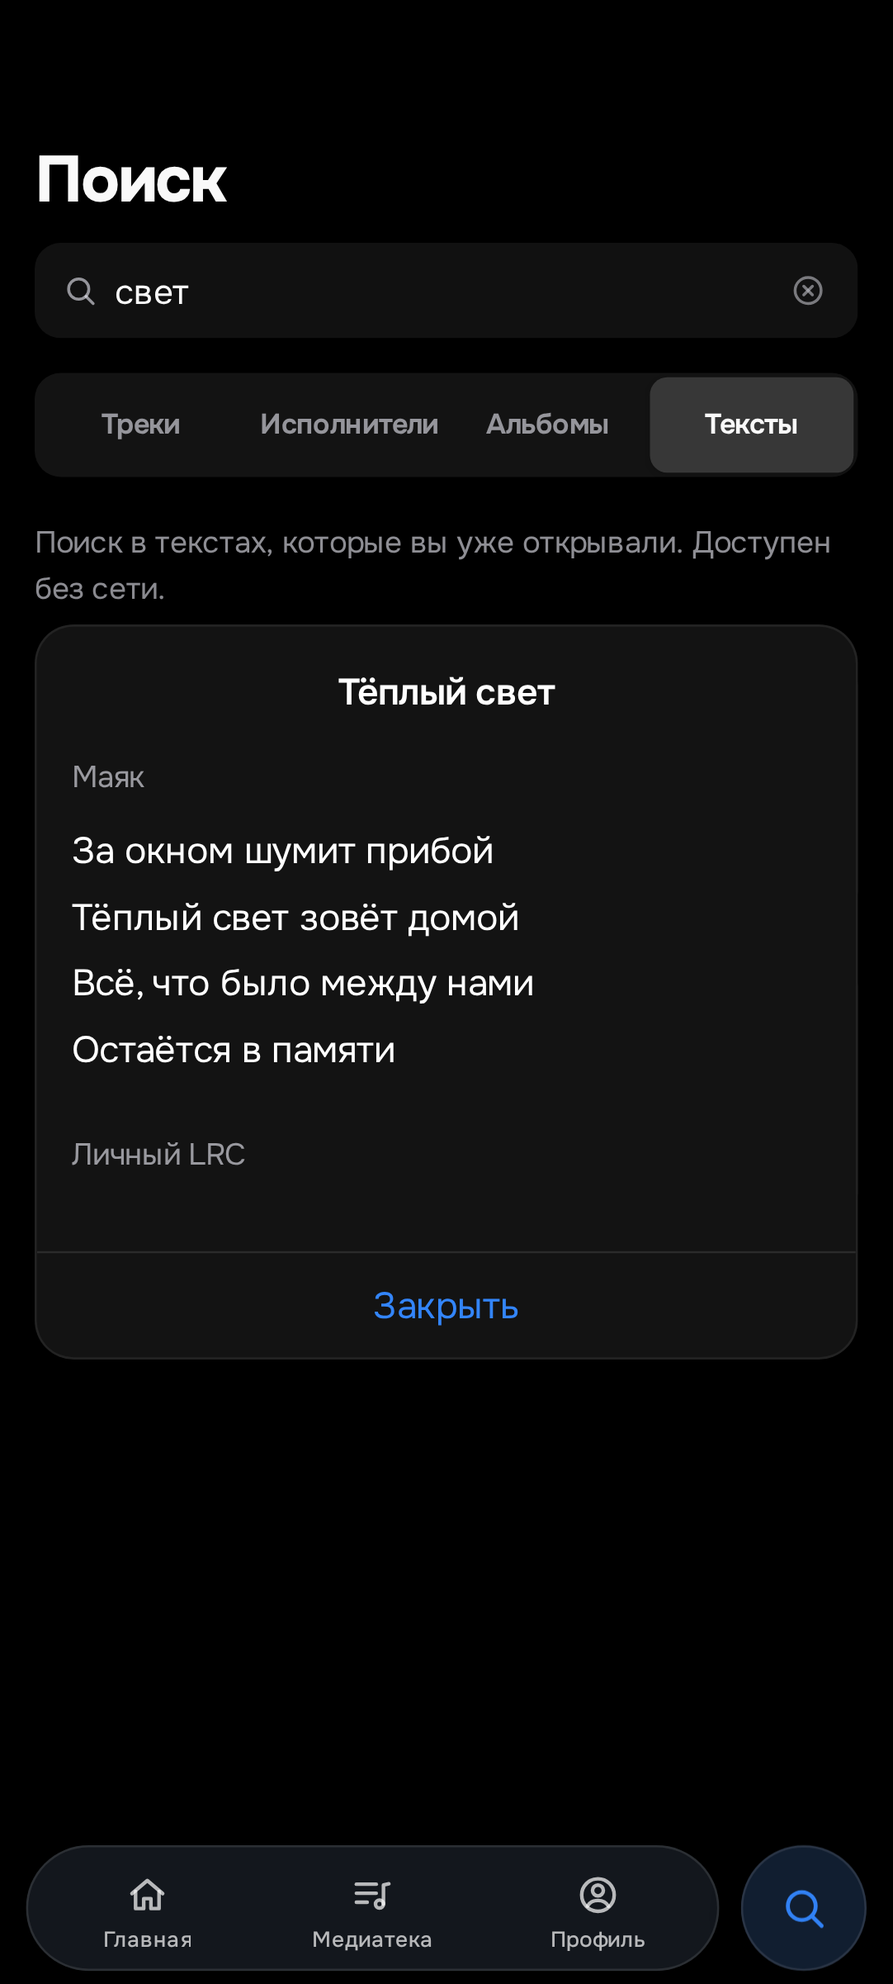
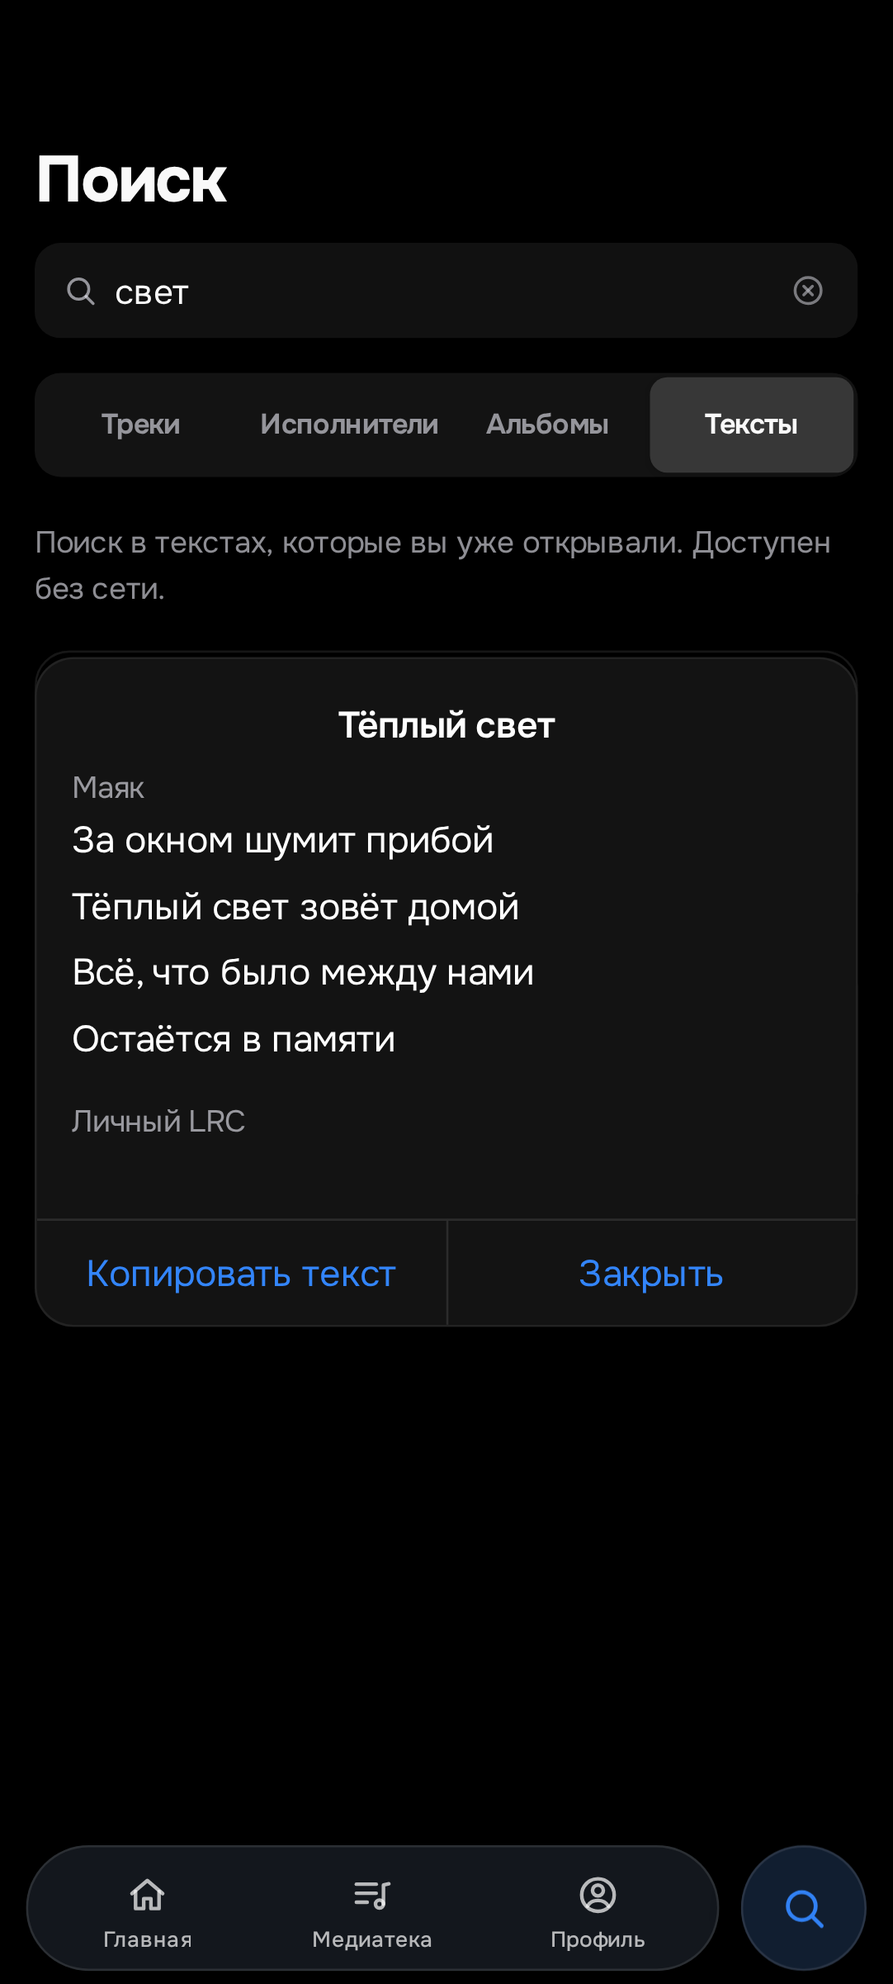
Android: копировать строки и полный текст песни без случайной перемотки

diff --git a/ui-tests/lyrics-copy.test.js b/ui-tests/lyrics-copy.test.js
@@ -1,0 +1,67 @@
+import test from 'node:test';
+import assert from 'node:assert/strict';
+import {openApp} from './harness.js';
+async function ready(page){await page.waitForSelector('.row');await page.waitForFunction(()=>!!document.querySelector('.account .name')?.textContent);}
+async function fixture(page){
+ await page.evaluate(async()=>{
+  const{installLyricsCopy}=await import('/js/lyrics-copy.js');const{api}=await import('/js/api.js');const{accountId}=await import('/js/personal.js');
+  const body=document.createElement('div');body.className='lyrics-copy-fixture';
+  const line=document.createElement('button');line.className='ly-line';line.textContent='Строка для копирования';line.onclick=()=>api.seek(5);
+  body.append(line);document.body.append(body);line.style.position='fixed';line.style.inset='100px 20px auto';line.style.zIndex='10000';line.style.height='70px';
+  window.__lyricIdentity='track';window.__copier=installLyricsCopy(body,()=>`${accountId()}:${window.__lyricIdentity}`);
+ });
+}
+test('lyrics: holding a line copies plain text once without seeking; the next tap still seeks',async()=>{
+ const app=await openApp({query:'?platform=android',config:{signedIn:true,libraryTotal:5}});try{
+  const{page}=app;await ready(page);await fixture(page);const line=page.locator('.lyrics-copy-fixture .ly-line');
+  await line.hover();await page.mouse.down();await page.waitForTimeout(650);await page.mouse.up();
+  assert.equal(await page.evaluate(()=>window.__mock.count('copy_text')),1);
+  assert.equal(await page.evaluate(()=>window.__mock.last('copy_text').args.text),'Строка для копирования');
+  assert.equal(await page.evaluate(()=>window.__mock.count('seek')),0);
+  await line.click();assert.equal(await page.evaluate(()=>window.__mock.count('seek')),1);
+  assert.deepEqual(app.problems,[]);
+ }finally{await app.close();}
+});
+test('lyrics: moving or changing the source during a hold cancels the copy',async()=>{
+ const app=await openApp({query:'?platform=android',config:{signedIn:true,libraryTotal:5}});try{
+  const{page}=app;await ready(page);await fixture(page);const box=await page.locator('.lyrics-copy-fixture .ly-line').boundingBox();
+  await page.mouse.move(box.x+20,box.y+20);await page.mouse.down();await page.mouse.move(box.x+50,box.y+20);await page.waitForTimeout(650);await page.mouse.up();
+  assert.equal(await page.evaluate(()=>window.__mock.count('copy_text')),0);
+  await page.mouse.down();await page.evaluate(()=>{window.__lyricIdentity='other';});await page.waitForTimeout(650);await page.mouse.up();
+  assert.equal(await page.evaluate(()=>window.__mock.count('copy_text')),0);
+  assert.deepEqual(app.problems,[]);
+ }finally{await app.close();}
+});
+test('lyrics: saved reader copies only its displayed text and leaves playback alone',async()=>{
+ const app=await openApp({phone:'small',config:{signedIn:true,libraryTotal:5}});try{
+  const{page}=app;await ready(page);
+  await page.evaluate(async()=>{const{rememberLyrics}=await import('/js/saved-lyrics.js');const{libraryTracks}=await import('/js/likes.js');rememberLyrics(libraryTracks()[0],{source:'Local',text:'Тихий вечер\nНовый день',lines:[]});});
+  await page.click('.dock-tab[data-tab="search"]');await page.getByRole('tab',{name:'Тексты',exact:true}).click();
+  const field=page.locator('.main > .view:not([hidden]) input[type="search"]');await field.fill('вечер');await field.press('Enter');await page.locator('.saved-lyrics-excerpt').click();
+  await page.locator('.saved-lyrics-copy').click();
+  assert.equal(await page.evaluate(()=>window.__mock.last('copy_text').args.text),'Тихий вечер\nНовый день');
+  assert.equal(await page.evaluate(()=>window.__mock.count('seek')),0);
+  assert.equal(await page.evaluate(()=>window.__mock.count('play_tracks')),0);
+  assert.deepEqual(app.problems,[]);
+ }finally{await app.close();}
+});
+test('lyrics: player updates do not cancel a hold, and the copy button copies the displayed version',async()=>{
+ const app=await openApp({query:'?platform=android',config:{signedIn:true,libraryTotal:5}});try{
+  const{page}=app;await ready(page);
+  await page.evaluate(async()=>{
+   const{createLyricsPanel}=await import('/js/lyrics-panel.js');const{libraryTracks}=await import('/js/likes.js');
+   const track=libraryTracks()[0],panel=createLyricsPanel();document.body.append(panel.element);panel.setVisible(true);
+   Object.assign(panel.element.style,{position:'fixed',inset:'20px auto auto 20px',width:'400px',height:'500px',zIndex:'10000',background:'white'});
+   panel.setTrack(track);window.__lyricsRefresh=setInterval(()=>panel.setTrack(track),40);
+  });
+  await page.waitForSelector('.ly-line');
+  const line=page.locator('.ly-line').first();await line.hover();await page.mouse.down();await page.waitForTimeout(650);await page.mouse.up();
+  assert.equal(await page.evaluate(()=>window.__mock.count('copy_text')),1);
+  assert.equal(await page.evaluate(()=>window.__mock.count('seek')),0);
+  await page.locator('.ly-copy').last().click();
+  assert.equal(await page.evaluate(()=>window.__mock.count('copy_text')),2);
+  assert.match(await page.evaluate(()=>window.__mock.last('copy_text').args.text),/Строка 39/);
+  await page.evaluate(()=>clearInterval(window.__lyricsRefresh));
+  assert.deepEqual(app.problems,[]);
+ }finally{await app.close();}
+});

diff --git a/ui/js/lyrics-panel.js b/ui/js/lyrics-panel.js
@@ -1,3 +1,6 @@
+import { installLyricsCopy, copyLyricsText } from "./lyrics-copy.js";
+import { icon } from "./icons.js";
+import { own } from "./store.js";
 import { ft } from "./feature-i18n.js";
 import { h } from "./dom.js";
 import { t } from "./i18n.js";
@@ -36,10 +39,16 @@ export function createLyricsPanel() {
   let displayed=null;
 
   const body = h("div", { class: "ly-body" });
+  const copier=installLyricsCopy(body,()=>current && currentAccount===accountId()?`${currentAccount}:${trackKey(current)}:${token}`:null);
+  own(copier.dispose);
   const source = h("div", { class: "ly-source" });
   const currentButton = h("button", { class: "ly-control", type: "button", text: t("ly.current"), hidden: true, onclick: () => snap(lastPosition) });
   const followButton = h("button", { class: "ly-control", type: "button", onclick: () => setAutoFollow(!autoFollow) });
-  const controls = h("div", { class: "ly-controls" }, source, currentButton, followButton);
+  const copyButton=h("button",{class:"ly-control ly-copy",type:"button",title:t("lyrics.copy"),"aria-label":t("lyrics.copy"),disabled:true,onclick:()=>{
+    const track=current,id=accountId(),text=displayed?.text;
+    if(track && text)copyLyricsText(text,()=>current===track && accountId()===id);
+  }},icon("copy",18));
+  const controls = h("div", { class: "ly-controls" }, source, currentButton, followButton,copyButton);
   const offsetText=h("span",{class:"ly-offset"});
   function changeOffset(delta){if(!current)return;try{offset=Math.round(Math.max(-30,Math.min(30,offset+delta))*10)/10;savePersonalLyrics(current,{...personalLyrics(current),offset});offsetText.textContent=`${offset>0?"+":""}${offset.toFixed(1)} с`;snap(lastPosition);}catch(error){toast(errorText(error),{error:true});}}
   const file=h("input",{type:"file",accept:".lrc,text/plain",hidden:true,onchange:async()=>{
@@ -58,6 +67,7 @@ export function createLyricsPanel() {
   let lastPosition = 0;
 
   function renderControls() {
+    copyButton.disabled=!displayed?.text?.trim();
     followButton.textContent = autoFollow ? t("ly.followOn") : t("ly.followOff");
     followButton.setAttribute("aria-pressed", String(autoFollow));
     currentButton.hidden = autoFollow || lines.length === 0;
@@ -76,6 +86,7 @@ export function createLyricsPanel() {
   body.addEventListener("pointerdown", markHandScroll);
 
   function message(text, retry) {
+    displayed=null;copier.cancel();
     lines = [];
     active = -1;
     source.textContent = "";
@@ -85,7 +96,7 @@ export function createLyricsPanel() {
   }
 
   function show(lyrics) {
-    displayed=lyrics;
+    copier.cancel();displayed=lyrics;
     if(current)rememberLyrics(current,lyrics);
     active = -1;
     source.textContent = t("ly.source", { source: lyrics.source });
@@ -93,7 +104,7 @@ export function createLyricsPanel() {
       lines = lyrics.lines.map((line, index) => ({
         time: line.time,
         node: h("button", {
-          type: "button", class: line.text ? "ly-line" : "ly-line gap", "data-i": String(index),
+          type: "button", class: line.text ? "ly-line" : "ly-line gap", "data-i": String(index), title:t("lyrics.copyHint"),
           onclick: () => api.seek(Math.max(0,line.time+offset)),
         }, line.text || "♪"),
       }));
@@ -173,17 +184,17 @@ export function createLyricsPanel() {
     element,
     /** Показывает текст песни `track` (или удаляет его, если его нет). */
     setTrack(track) {
-      if (!track) { token += 1; current = null; message(""); return; }
+      if (!track) { copier.cancel();token += 1; current = null; message(""); return; }
       if (current && currentAccount === accountId() && trackKey(current) === trackKey(track)) return;
-      current = track;
+      copier.cancel();current = track;
       currentAccount = accountId();
       load(track);
     },
-    setVisible(on) { element.hidden = !on; },
+    setVisible(on) { if(!on)copier.cancel();element.hidden = !on; },
     update(position) { follow(position); },
     /** После поиска или появления панели: прыгайте, не планируя. */
     snap,
-    forget() { current = null; token += 1; },
+    forget() { copier.cancel();current = null; token += 1; },
   };
 }
 

diff --git a/ui/js/lyrics-copy.js b/ui/js/lyrics-copy.js
@@ -1,0 +1,53 @@
+import { api } from './api.js';
+import { accountId } from './personal.js';
+import { isAndroid } from './mobile/layout.js';
+import { toast } from './toast.js';
+import { t, addStrings } from './i18n.js';
+addStrings({ru:{'lyrics.copy':'Копировать текст','lyrics.copied':'Текст скопирован','lyrics.copyFailed':'Не удалось скопировать текст','lyrics.copyHint':'Удерживайте строку, чтобы скопировать. Касание перематывает песню.'},en:{'lyrics.copy':'Copy lyrics','lyrics.copied':'Lyrics copied','lyrics.copyFailed':'Could not copy lyrics','lyrics.copyHint':'Hold a line to copy it. Tap to seek in the song.'}});
+export async function copyLyricsText(text, isCurrent=()=>true) {
+  if(!isCurrent())return;
+  const account=accountId();
+  try{
+    if(typeof text!=='string' || !text.trim() || text.length>150000 || new TextEncoder().encode(text).length>150000)throw new Error('Invalid clipboard text');
+    if(isAndroid())await api.copyText(text);
+    else {
+      let copied=false;
+      if(navigator.clipboard?.writeText){try{await navigator.clipboard.writeText(text);copied=true;}catch{/* use the explicit selection fallback */}}
+      if(!copied){
+        const previous=document.activeElement, field=document.createElement('textarea');
+        field.className='clipboard-copy-proxy';field.value=text;field.readOnly=true;(document.querySelector('dialog[open]')??document.body).append(field);
+        try{field.focus({preventScroll:true});field.select();if(!document.execCommand('copy'))throw new Error('Clipboard unavailable');}
+        finally{field.remove();previous?.focus?.({preventScroll:true});}
+      }
+    }
+    if(account===accountId() && isCurrent())toast(t('lyrics.copied'));
+  }catch{if(account===accountId() && isCurrent())toast(t('lyrics.copyFailed'),{error:true});}
+}
+// Delegate to the lyric body so line rerenders need no additional listeners.
+export function installLyricsCopy(body, identity) {
+  let active=null, blocked=null;
+  const target=event=>{const node=event.target.closest?.('.ly-line:not(.gap)');return node && body.contains(node)?node:null;};
+  function cancel(){if(active)clearTimeout(active.timer);active=null;}
+  function valid(op){return !!op.identity && op.node.isConnected && identity()===op.identity;}
+  function copy(op){
+    if(!valid(op))return;
+    blocked=op.node;op.copied=true;
+    copyLyricsText(op.node.textContent,()=>valid(op));
+  }
+  function down(event){
+    cancel();blocked=null;
+    const node=target(event);if(!node || event.button!==0 || event.isPrimary===false)return;
+    const op={node,identity:identity(),x:event.clientX,y:event.clientY,id:event.pointerId,copied:false};active=op;
+    op.timer=setTimeout(()=>{if(active===op)copy(op);},550);
+  }
+  function move(event){if(active && event.pointerId===active.id && Math.hypot(event.clientX-active.x,event.clientY-active.y)>8)cancel();}
+  function up(){cancel();}
+  function click(event){if(blocked && target(event)===blocked){event.preventDefault();event.stopImmediatePropagation();blocked=null;}}
+  function context(event){
+    const node=target(event);if(!node)return;event.preventDefault();
+    if(node!==blocked)copy({node,identity:identity()});cancel();
+  }
+  const handlers=[['pointerdown',down],['pointermove',move],['pointerup',up],['pointercancel',up],['pointerleave',up],['contextmenu',context],['click',click,true]];
+  for(const [name,handler,capture]of handlers)body.addEventListener(name,handler,capture);
+  return {cancel(){cancel();blocked=null;},dispose(){cancel();for(const[name,handler,capture]of handlers)body.removeEventListener(name,handler,capture);}};
+}

diff --git a/ui/js/saved-lyrics-view.js b/ui/js/saved-lyrics-view.js
@@ -1,3 +1,4 @@
+import { copyLyricsText } from "./lyrics-copy.js";
 import { h } from './dom.js';
 import { t, addStrings } from './i18n.js';
 import { findSavedLyrics } from './saved-lyrics.js';
@@ -20,10 +21,13 @@ export function createSavedLyricsView(play) {
   function read(entry) {
     close();
     const button=h('button',{class:'btn',type:'button',text:t('savedLyrics.close'),onclick:close});
-    dialog=h('dialog',{class:'dialog saved-lyrics-reader','aria-label':entry.track.title},h('div',{class:'dialog-form'},
+    const id=accountId();
+    const copy=h('button',{class:'btn saved-lyrics-copy',type:'button',text:t('lyrics.copy'),onclick:()=>copyLyricsText(entry.lyrics.text,()=>dialog===reader && id===accountId())});
+    dialog=h('dialog',{class:'dialog saved-lyrics-reader','aria-label':entry.track.title},h('div',{class:'dialog-form'},h('div',{class:'saved-lyrics-reader-body'},
       h('h2',{text:entry.track.title}),h('p',{class:'saved-lyrics-artist',text:entry.track.artist}),
-      h('div',{class:'saved-lyrics-text',text:entry.lyrics.text}),h('p',{class:'saved-lyrics-hint',text:entry.lyrics.source}),
-      h('div',{class:'dialog-actions'},button)));
+      h('div',{class:'saved-lyrics-text',text:entry.lyrics.text}),h('p',{class:'saved-lyrics-hint',text:entry.lyrics.source})),
+      h('div',{class:'dialog-actions'},copy,button)));
+    const reader=dialog;
     dialog.addEventListener('cancel',event=>{event.preventDefault();close();});
     document.body.classList.add('overlay-open');document.body.append(dialog);dialog.showModal();button.focus();
   }

diff --git a/ui/css/discovery.css b/ui/css/discovery.css
@@ -113,7 +113,9 @@
 .saved-lyrics-excerpt { text-align: left; color: var(--text); background: transparent; border: 0; padding: 10px 0; min-height: 44px; line-height: 1.5; cursor: pointer; }
 .saved-lyrics-excerpt:hover { text-decoration: underline; }
 .saved-lyrics-reader { max-width: 640px; width: calc(100% - 32px); }
-.saved-lyrics-reader .dialog-form { max-height: 80dvh; overflow: auto; }
+.saved-lyrics-reader .dialog-form { max-height: 80dvh; overflow: hidden; }
+.saved-lyrics-reader-body { min-height: 0; overflow-y: auto; }
+.saved-lyrics-reader .dialog-actions { flex-shrink: 0; }
 .saved-lyrics-text { white-space: pre-wrap; overflow-wrap: anywhere; line-height: 1.8; font-size: 17px; }
 
 html[data-layout="phone"] .saved-lyrics-pane { padding: 0 var(--gutter) 24px; }
@@ -132,3 +134,7 @@ html[data-layout="phone"] .saved-lyrics-pane { padding: 0 var(--gutter) 24px; }
 .file-details-body { min-height: 0; overflow-y: auto; }
 .file-details-dialog .dialog-actions { flex-shrink: 0; }
 .file-details-dialog .file-actions .file-confirm-remove { color: var(--danger); border-color: var(--danger); }
+
+.ly-controls { flex-wrap: wrap; }
+.ly-copy { min-width: 44px; display: grid; place-items: center; }
+.ly-text, .saved-lyrics-text { -webkit-user-select: text; user-select: text; }

diff --git a/plugins/vk-login/android/src/main/java/com/dec/privatemusic/vklogin/LoginPlugin.kt b/plugins/vk-login/android/src/main/java/com/dec/privatemusic/vklogin/LoginPlugin.kt
@@ -32,6 +32,9 @@ class StartArgs {
 class AudioShareArgs { lateinit var path: String }
 
 @InvokeArg
+class ClipboardTextArgs { lateinit var text: String }
+
+@InvokeArg
 class ShareArgs {
     lateinit var url: String
     var title: String = ""
@@ -253,6 +256,17 @@ class LoginPlugin(private val activity: Activity) : Plugin(activity) {
             activity.startActivity(Intent.createChooser(intent, null))
             invoke.resolve()
         } catch (_: Exception) { invoke.reject("Could not open sharing") }
+    }
+
+    @Command
+    fun copyText(invoke: Invoke) {
+        val args = invoke.parseArgs(ClipboardTextArgs::class.java)
+        if (!ClipboardTextPolicy.accepts(args.text)) { invoke.reject("Invalid clipboard text"); return }
+        try {
+            val clipboard = activity.getSystemService(ClipboardManager::class.java) ?: throw IllegalStateException("Clipboard unavailable")
+            clipboard.setPrimaryClip(ClipData.newPlainText("Private Music", args.text))
+            invoke.resolve()
+        } catch (_: Exception) { invoke.reject("Could not copy text") }
     }
 
     @Command

diff --git a/plugins/vk-login/android/src/test/java/com/dec/privatemusic/vklogin/ClipboardTextPolicyTest.kt b/plugins/vk-login/android/src/test/java/com/dec/privatemusic/vklogin/ClipboardTextPolicyTest.kt
@@ -1,0 +1,17 @@
+package com.dec.privatemusic.vklogin
+
+import org.junit.Assert.*
+import org.junit.Test
+
+class ClipboardTextPolicyTest {
+    @Test fun boundsUtf8RatherThanOnlyCharacters() {
+        assertTrue(ClipboardTextPolicy.accepts("я".repeat(75000)))
+        assertFalse(ClipboardTextPolicy.accepts("я".repeat(75001)))
+        assertFalse(ClipboardTextPolicy.accepts("a".repeat(150001)))
+    }
+    @Test fun allowsPlainLyricsAndRejectsEmptyCopies() {
+        assertTrue(ClipboardTextPolicy.accepts("Первая строка\nВторая <b>строка</b>"))
+        assertFalse(ClipboardTextPolicy.accepts(""))
+        assertFalse(ClipboardTextPolicy.accepts(" \n\t"))
+    }
+}

diff --git a/ui-tests/mock-backend.js b/ui-tests/mock-backend.js
@@ -242,6 +242,7 @@
     },
     stop: () => { state.player.status = "idle"; emitState(); },
     downloads: () => ({ tracks: state.downloads ?? [], bytes: (state.downloads ?? []).length * 4_200_000 }),
+    copy_text:()=>null,
     download_details: async ({trackId}) => {
       await delay(config.downloadDetailsDelay ?? 10);
       return (state.downloads ?? []).some(track=>`${track.owner_id}_${track.track_id}`===trackId) ? {bytes:4_200_000,added:1792700000,format:'AAC',available:!config.downloadFileMissing} : null;

diff --git a/ui/js/api.js b/ui/js/api.js
@@ -32,6 +32,7 @@ export const api = {
   clearUpcoming: () => invoke("clear_upcoming"),
   moveUpcoming: (from, to) => invoke("move_upcoming", { from, to }),
   shareLink: (url, title) => invoke("share_link", { url, title }),
+  copyText: text => invoke("copy_text", {text}),
   downloadDetails: trackId => invoke("download_details", {trackId}),
   shareAudio: (track, allowDownload = false) => invoke("share_audio", {track,allowDownload}),
   networkUsage: () => invoke("network_usage"),

diff --git a/plugins/vk-login/android/src/main/java/com/dec/privatemusic/vklogin/ClipboardTextPolicy.kt b/plugins/vk-login/android/src/main/java/com/dec/privatemusic/vklogin/ClipboardTextPolicy.kt
@@ -1,0 +1,7 @@
+package com.dec.privatemusic.vklogin
+
+/** A lyric can be copied explicitly, without changing the stricter VK-link clipboard contract. */
+internal object ClipboardTextPolicy {
+    const val MAX_BYTES = 150_000
+    fun accepts(text: String): Boolean = text.length <= MAX_BYTES && text.isNotBlank() && text.toByteArray(Charsets.UTF_8).size <= MAX_BYTES
+}

diff --git a/src-tauri/src/clipboard.rs b/src-tauri/src/clipboard.rs
@@ -1,0 +1,35 @@
+//! Explicit bounded text copies; no paths, network requests or relaxed VK-link validation.
+use pm_engine::{Error, Result};
+use tauri::AppHandle;
+
+fn checked(text: &str) -> Result<()> {
+    if text.trim().is_empty() || text.len() > 150_000 {
+        return Err(Error::InvalidRequest);
+    }
+    Ok(())
+}
+pub fn copy(handle: &AppHandle, text: &str) -> Result<()> {
+    checked(text)?;
+    #[cfg(target_os = "android")]
+    {
+        use tauri_plugin_vk_login::VkLoginExt;
+        handle.vk_login().copy_text(text).map_err(|_| Error::Unavailable)
+    }
+    #[cfg(not(target_os = "android"))]
+    {
+        let _ = handle;
+        Err(Error::InvalidRequest)
+    }
+}
+#[cfg(test)]
+mod tests {
+    use super::*;
+    #[test]
+    fn text_copies_are_nonempty_and_utf8_bounded() {
+        assert!(checked("Первая строка\nВторая строка").is_ok());
+        assert!(checked(&"я".repeat(75_000)).is_ok());
+        for text in [String::new(), " \n\t".into(), "я".repeat(75_001)] {
+            assert!(checked(&text).is_err());
+        }
+    }
+}

diff --git a/src-tauri/src/lib.rs b/src-tauri/src/lib.rs
@@ -7,6 +7,7 @@ mod audio_upload;
 mod audio_share;
 mod playlist_cover;
 mod share;
+mod clipboard;
 mod diagnostics;
 #[cfg(desktop)]
 mod login;
@@ -301,7 +302,7 @@ pub fn run() {
             commands::set_visualizer,
             commands::set_equalizer,commands::set_taste,commands::set_transitions,commands::set_normalization,commands::month_plays,
             commands::lyrics, commands::lyrics_versions,
-            commands::choose_cover, commands::set_playlist_cover, commands::discard_cover, commands::share_audio, commands::share_link, commands::copy_link, commands::network_usage, commands::crash_report,
+            commands::choose_cover, commands::set_playlist_cover, commands::discard_cover, commands::share_audio, commands::share_link, commands::copy_link, commands::copy_text, commands::network_usage, commands::crash_report,
             commands::choose_audio, commands::upload_audio, commands::discard_audio,
             commands::create_playlist,
             commands::edit_playlist,
